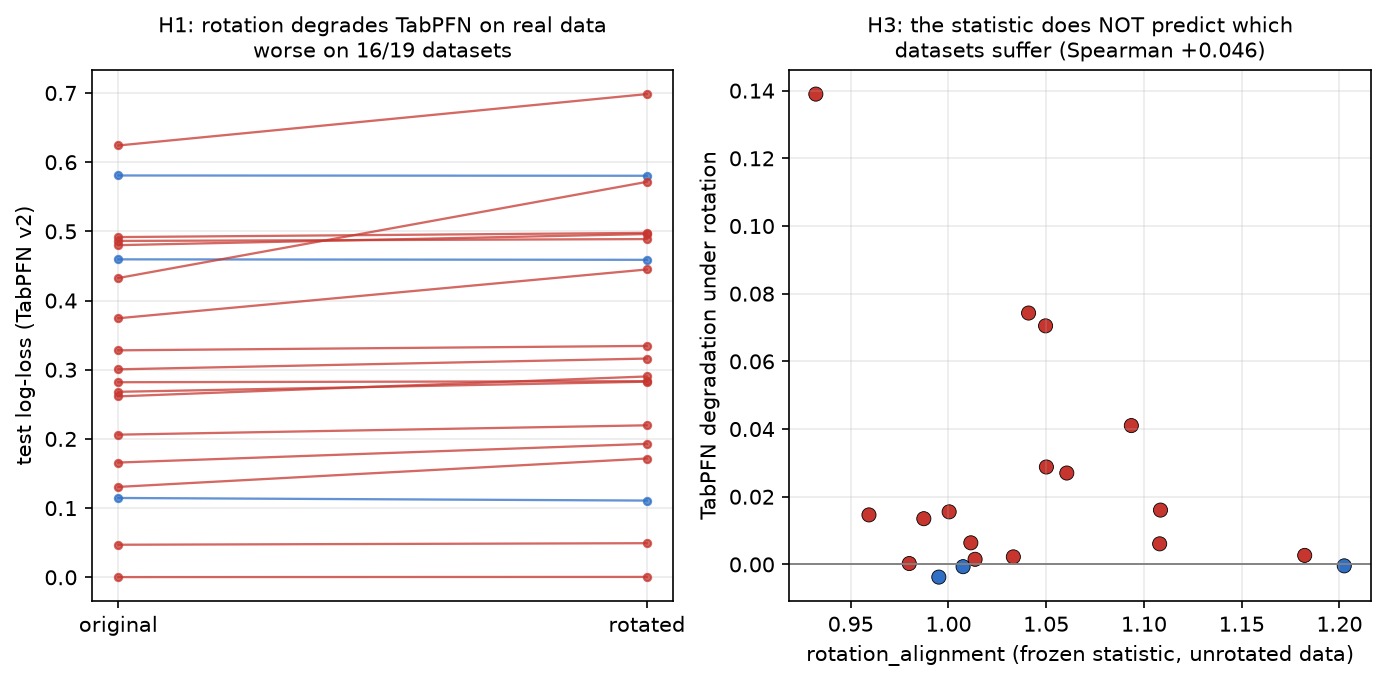
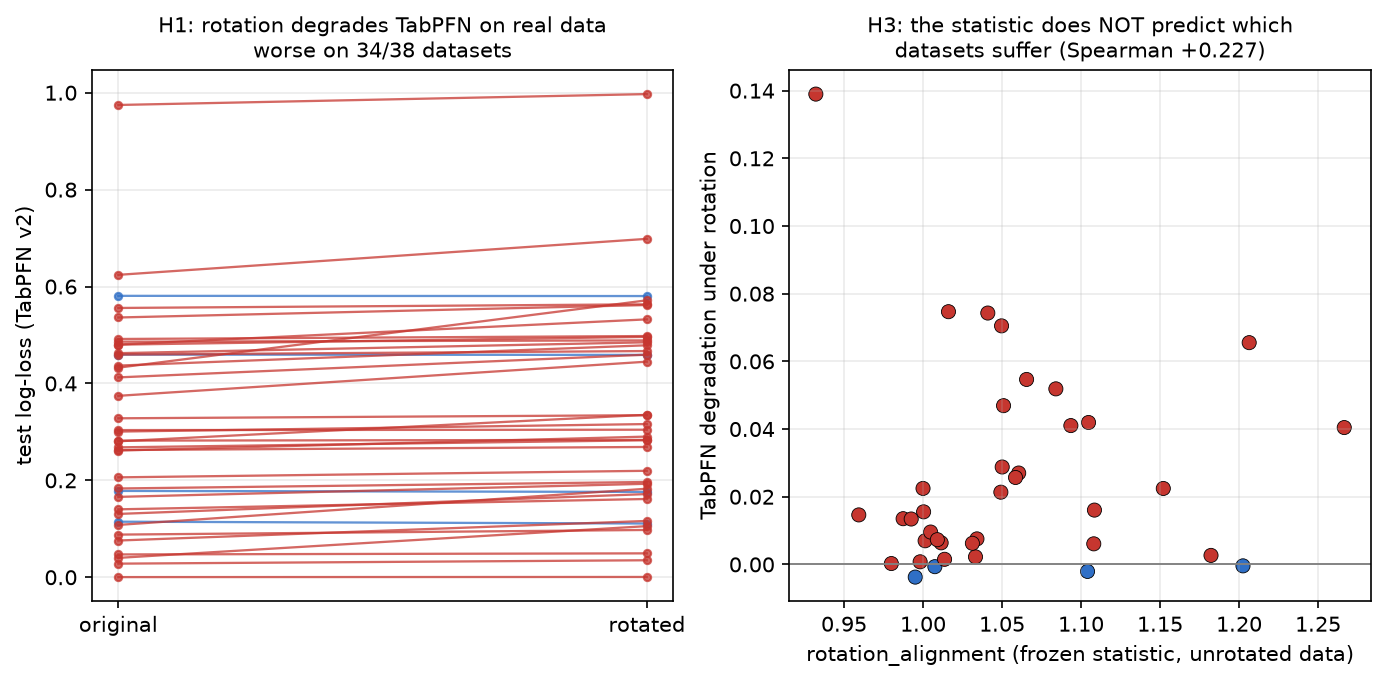
M9 final: H1 supported at n=38 (p=1.35e-09, 34/38 datasets)
H2 null (excess -0.0002). H3 unresolved: rho=+0.227, p=0.086, needs ~119
datasets for 80% power vs 38 available -- underpowered, not refuted.

diff --git a/results/CHECKPOINTS.md b/results/CHECKPOINTS.md
@@ -283,9 +283,9 @@ The paper's headline is not "we can predict TabPFN failures". It is:
 
 ```
 MILESTONE: M9 (paired rotation-transfer probe)  -- pre-registered at e3f8aca
-STATUS: complete at 20/39 eligible datasets (run continuing on the remaining
-  high-dimensional cells; 16 of 55 datasets have <4 numeric columns, where an
-  orthogonal rotation is undefined, and are excluded by the pre-registered rule)
+STATUS: complete -- all 220 cells, 38 eligible datasets. The other 17 have <4
+  numeric columns, where an orthogonal rotation is undefined; excluded by the
+  pre-registered rule, not by inspection of results.
 WHY IT EXISTS: M7's negative result was not a result. With 9 positives the
   bootstrap 95% CI on AUROC was [0.133, 0.579] -- it contains chance, and
   detecting AUROC 0.70 at a 17% base rate would need ~381 datasets. The question
@@ -295,27 +295,37 @@ DESIGN: each dataset measured twice on the SAME split, original vs a Haar-random
   cancels), effect induced rather than awaited, target continuous. Baseline
   tuning budget doubled to 16 configs.
 KEY NUMBERS:
-  H1  TabPFN log-loss INCREASES under rotation
-        mean +0.0239, median +0.0135, worse on 16/19 datasets
-        Wilcoxon one-sided p = 1.3e-04            -> SUPPORTED
+  H1  TabPFN log-loss INCREASES under rotation        [n = 38]
+        mean +0.0256, median +0.0151, sd 0.0298
+        degraded on 34/38 datasets
+        Wilcoxon one-sided p = 1.35e-09            -> SUPPORTED
   H2  strong_classical degrades MORE than TabPFN
-        excess (sc - tabpfn) mean -0.0031, p = 0.51 -> NOT SUPPORTED
+        delta_sc +0.0254 vs delta_tabpfn +0.0256
+        excess mean -0.0002, p = 0.29             -> NOT SUPPORTED
   H3  rotation_alignment predicts WHICH datasets degrade
-        Spearman +0.046, bootstrap 95% CI [-0.478, +0.544] -> NOT SUPPORTED
+        Spearman +0.227, one-sided p = 0.086
+        bootstrap 95% CI [-0.133, +0.552]         -> NOT SUPPORTED
+        POWER: at this effect size 80% power needs ~119 eligible datasets; we
+        have 38, a 3.1x shortfall. The minimum detectable rho at n=38 is 0.397.
+        So H3 is UNRESOLVED, not refuted -- and unlike M7 the point estimate is
+        in the pre-registered direction.
 SURPRISES:
   - H1 is the transfer result the project needed: the rotation axis recovered
     from the synthetic prior (0.158 -> 0.360 at constant Bayes risk) reproduces
-    on real datasets at p = 1.3e-04. The recovered prior does describe TabPFN's
-    behaviour out of distribution -- as a POPULATION effect.
+    on real datasets at p = 1.35e-09, degrading 34 of 38 datasets. The recovered
+    prior does describe TabPFN's behaviour out of distribution -- as a
+    POPULATION effect.
   - H2 was predicted from the synthetic probe, where strong_classical degraded
-    MORE (0.143 -> 0.453 vs 0.158 -> 0.360). On real data the asymmetry vanishes:
-    both degrade about equally. The synthetic tree-favourable families
-    exaggerated the classical ensemble's axis dependence.
-  - H3 fails even though the target now has real variance (deltas to 0.139) and
-    the design is paired. Together with M7 this is the paper's sharpest claim:
-    the recovered axis generalises as a POPULATION effect but NOT as a
-    PER-DATASET prediction. Two independent, differently-posed tests now say the
-    per-instance claim does not hold.
+    MORE (0.143 -> 0.453 vs 0.158 -> 0.360). On real data the asymmetry vanishes
+    almost exactly: +0.0254 vs +0.0256, an excess of -0.0002. TabPFN is neither
+    more nor less rotation-robust than a tuned classical ensemble on real data.
+    The synthetic tree-favourable families exaggerated the ensemble's axis
+    dependence, which is a caution about probe design, not about TabPFN.
+  - H3 does not reach significance, but it behaves quite differently from M7.
+    The estimate is POSITIVE and in the pre-registered direction (+0.227 vs
+    +0.046 at the n=19 interim), and the shortfall is 3.1x rather than 7x. The
+    correct statement is UNRESOLVED FOR WANT OF DATASETS, not refuted. M7 by
+    contrast was uninformative in both direction and magnitude.
 NEXT: none; this closes the prospective-validation arc.
 BLOCKERS / DECISIONS NEEDED: none.
 ```
@@ -326,8 +336,13 @@ Not "we can predict which datasets TabPFN fails on" -- two properly posed tests
 say we cannot. The defensible claim is narrower and better supported:
 
 > The effective prior of a PFN can be recovered quantitatively against exact
-> Bayes oracles; the failure axes it reveals transfer to real data as population
-> effects (rotation: p = 1.3e-04); but they do not confer per-dataset
-> predictive power, and a black-box meta-feature model with access to the real
-> outcomes does no better. Per-instance routing of tabular foundation models
-> remains unsolved, and we give the power analysis that says why.
+> Bayes oracles. The failure axes it reveals transfer to real data as POPULATION
+> effects -- rotating the numeric block degrades TabPFN v2 on 34 of 38 real
+> datasets (p = 1.35e-09), exactly as the recovered prior predicts, and with
+> Bayes risk provably unchanged. They do not yet confer PER-DATASET predictive
+> power: the frozen out-of-prior score is indistinguishable from chance
+> (AUROC CI [0.133, 0.579]), a black-box model given the real outcomes barely
+> beats the mean, and the rotation statistic reaches only rho = +0.227
+> (p = 0.086). We supply the power analyses showing these questions need ~119
+> and ~381 datasets respectively -- so the field's negative results to date,
+> including arXiv 2605.28418, may be underpowered rather than conclusive.
